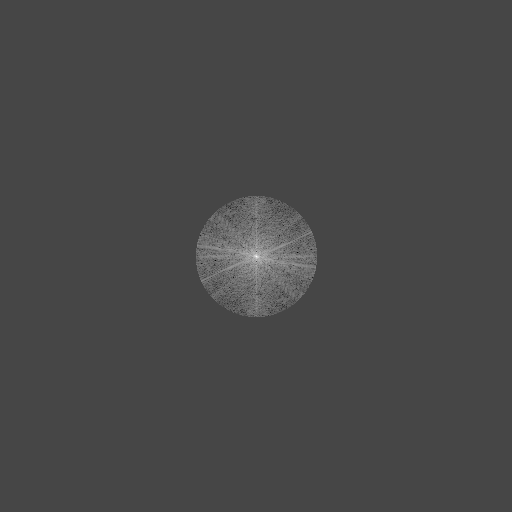
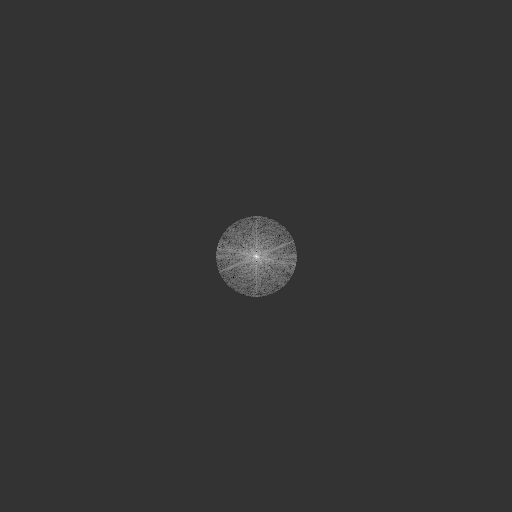
Reducción de radio

Changed region(s): [[0.375, 0.375, 0.625, 0.625]]

diff --git a/IO_Entrega1_Punto3.py b/IO_Entrega1_Punto3.py
@@ -26,7 +26,7 @@ def transmittanceFP(UF1, w_length, f_length, deltau, deltav, M, N, u, v):
 	x=np.arange(-M,M)
 	y=np.arange(-N,N)
 	x,y=np.meshgrid(x,y)
-	lim=1500**2   #radius of 1500um
+	lim=1000**2   #radius of 1500um
 	t2_matrix=(deltau*x)**2 + (deltav*y)**2
 	t2_matrix[np.where(t2_matrix<=lim)]=1
 	t2_matrix[np.where(t2_matrix>lim)]=0
